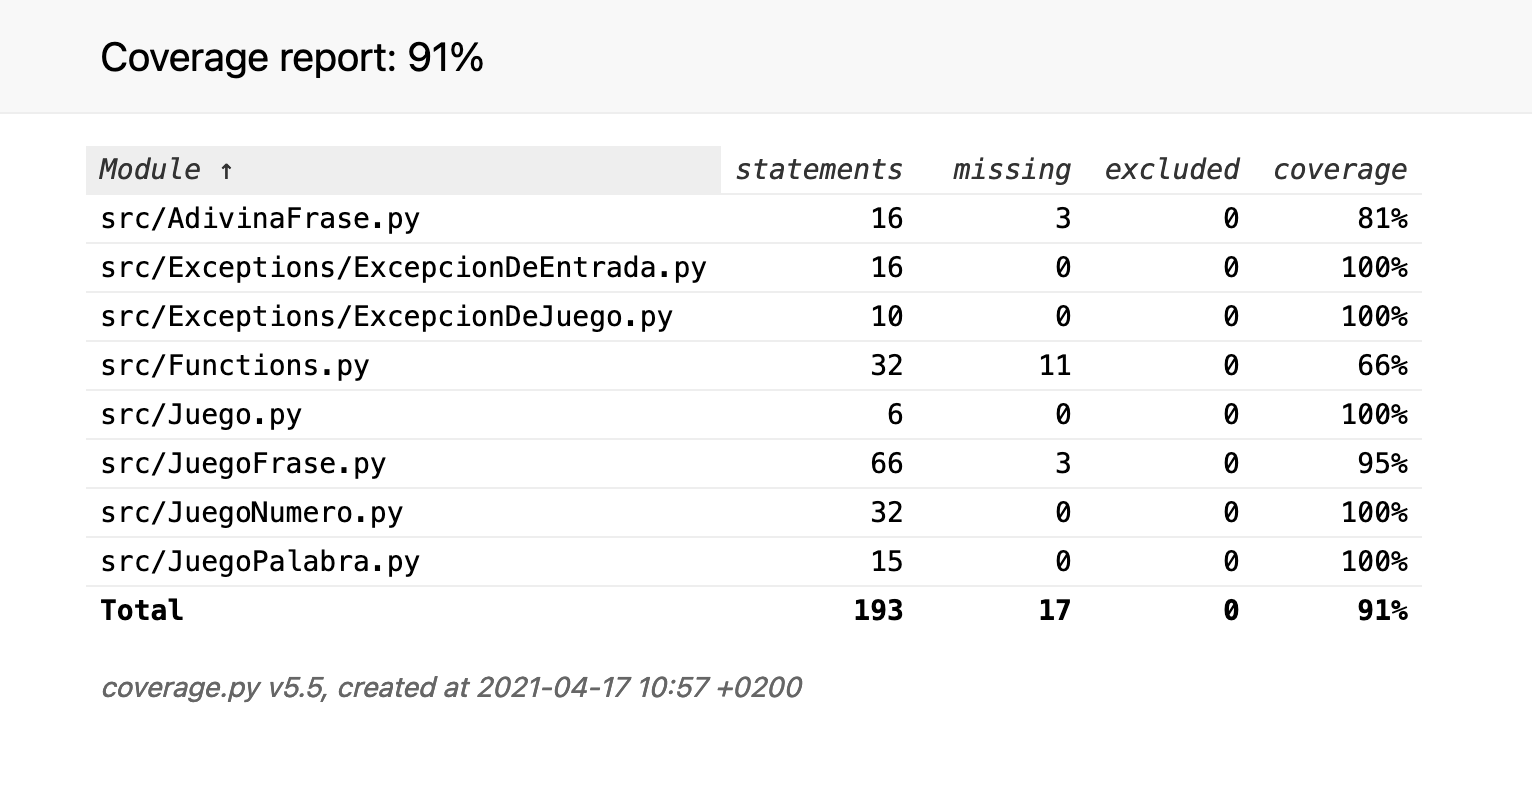
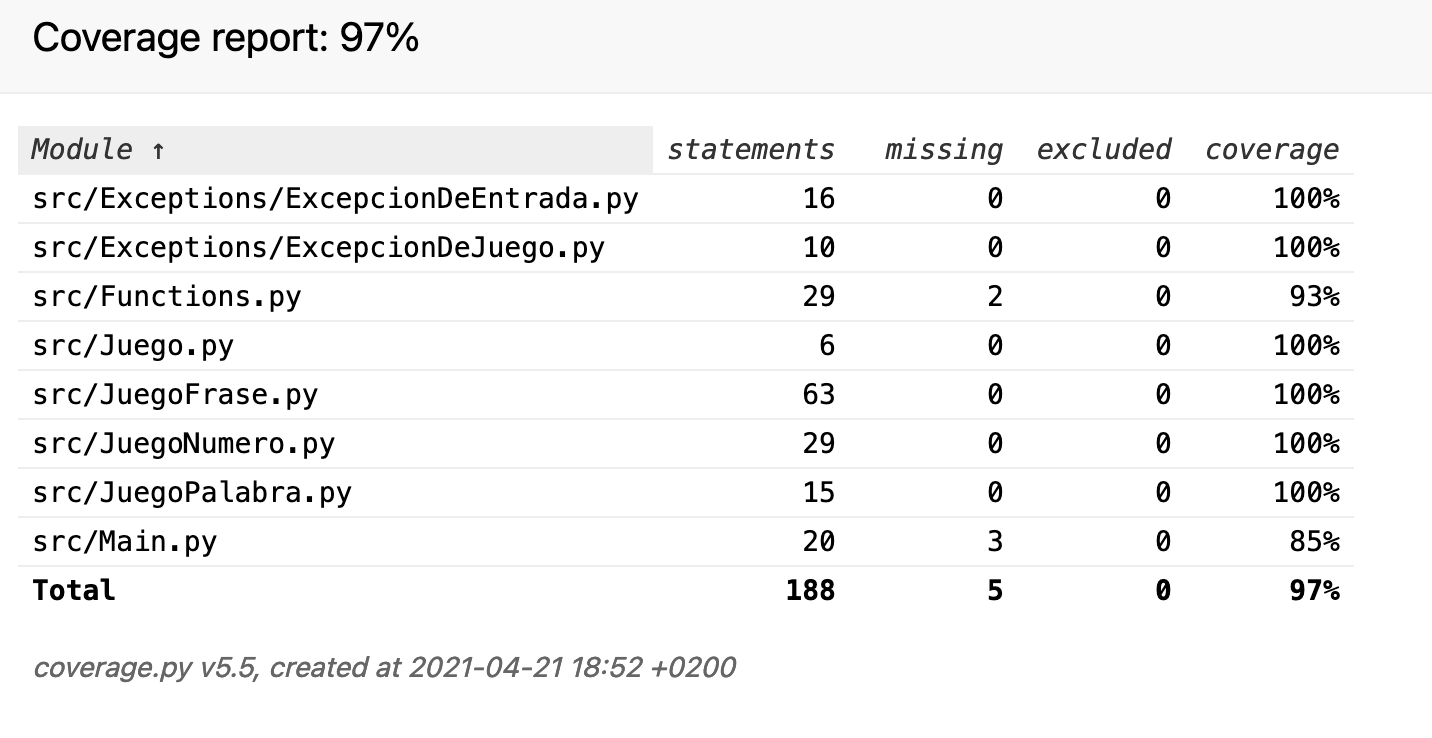
test: Añadir cobertura en opción no deseada

diff --git a/tests/test_JuegoFrase.py b/tests/test_JuegoFrase.py
@@ -21,7 +21,7 @@ class AdivinaFrase(TestCase):
 
     @patch('src.JuegoFrase.obtener_string_de_usuario', return_value='adivino la frase')
     @patch('src.JuegoNumero.obtener_numero_de_usuario', return_value=4)
-    @patch('src.JuegoFrase.obtener_numero_de_usuario', return_value=2)
+    @patch('src.JuegoFrase.obtener_numero_de_usuario', side_effect=[3, 2])
     def test_no_adivina_frase(self, mock_frase_intentada, mock_longitud, mock_opcion_deseada):
         frase_a_adivinar = "no adivino la frase"
         juego_frase = JuegoFrase(frase_a_adivinar, 1)
